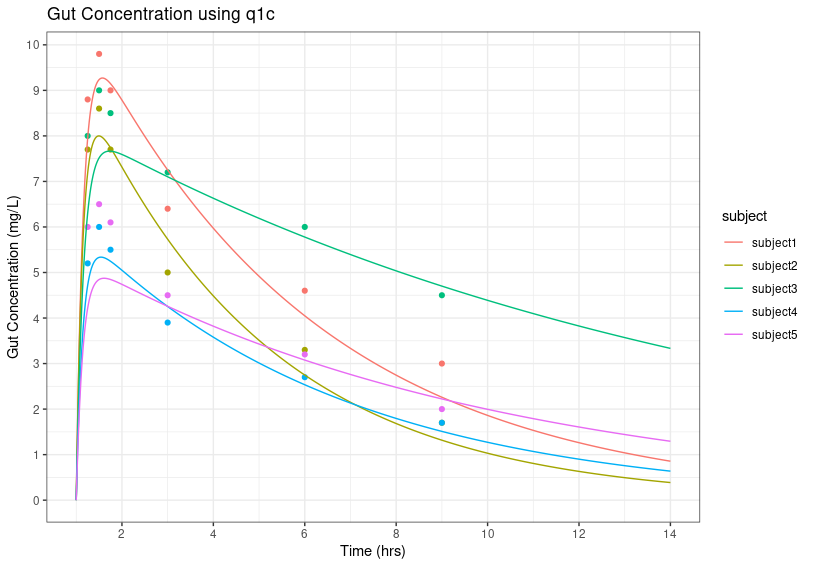
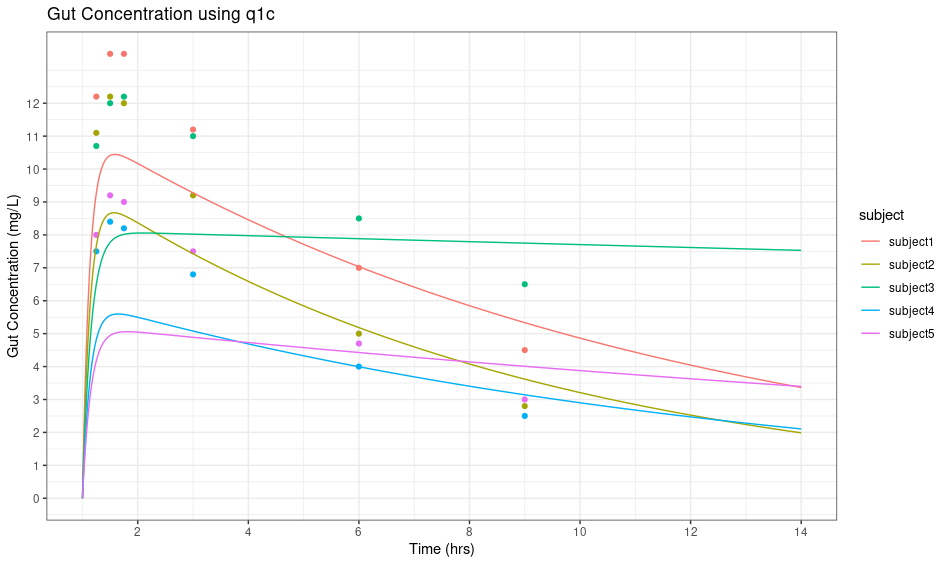
fix q1 based on updates to assignment

diff --git a/hw/hw3/q1_script.m b/hw/hw3/q1_script.m
@@ -11,12 +11,12 @@ V =  Vd * weights;
 t_real =[0.25, 0.5, 0.75, 2, 5, 8]; % measurements in hours since 11am
 y0 = [0, 0, 310]; % initial coffee @ 11am
 y_real = [
-    8.8, 7.7, 8.0, 5.2, 6.0; %11:15
-    9.8, 8.6, 9.0, 6.0, 6.5; %11:30
-    9.0, 7.7, 8.5, 5.5, 6.1; %11:45
-    6.4, 5.0, 7.2, 3.9, 4.5; %02;00
-    4.6, 3.3, 6.0, 2.7, 3.2; %04;00
-    3.0, 1.7, 4.5, 1.7, 2.0; %07;00
+    12.2, 11.1, 10.7, 7.5, 8.0; %11:15
+    13.5, 12.2, 12.0, 8.4, 9.2; %11:30
+    13.5, 12.0, 12.2, 8.2, 9.0; %11:45
+    11.2,  9.2, 11.0, 6.8, 7.5; %02;00
+     7.0,  5.0,  8.5, 4.0, 4.7; %04;00
+     4.5,  2.8,  6.5, 2.5, 3.0; %07;00
 ]; % mg/L
 
 %% 1a
